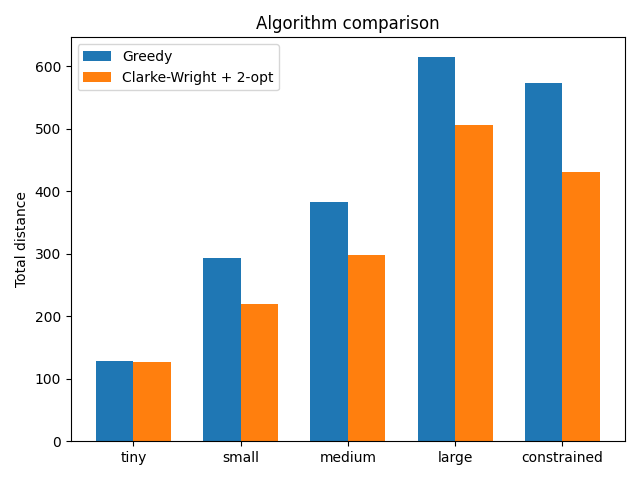
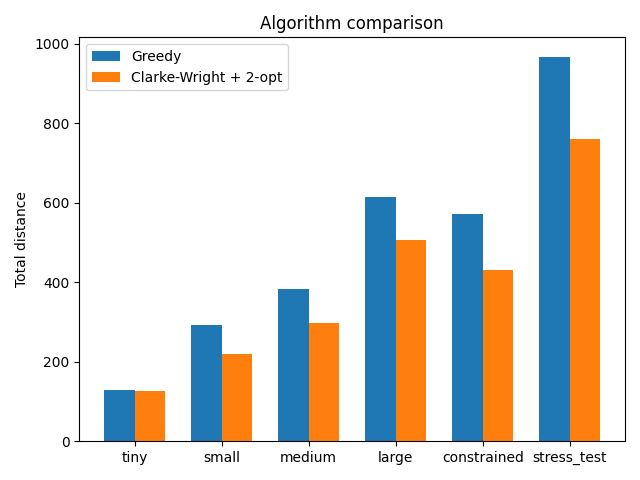
stress testing

diff --git a/test_data_6_stress.py b/test_data_6_stress.py
@@ -1,0 +1,25 @@
+# test_data_6_stress.py
+data = {
+    "name": "stress_test",
+    "depot": (25.0, 25.0),
+    "customers": [
+        (7.3, 22.7), (38.5, 35.3), (36.6, 21.7), (40.0, 26.6), (4.0, 22.8), (2.4, 46.6), (47.4, 16.8), (15.5, 38.4), (10.2, 8.9), (9.4, 17.4),
+        (31.3, 48.2), (10.5, 47.8), (27.8, 45.1), (40.9, 8.0), (32.4, 6.2), (0.3, 19.8), (38.7, 28.3), (9.6, 42.1), (45.7, 11.9), (22.4, 31.9),
+        (45.1, 6.3), (27.7, 48.4), (30.5, 35.9), (38.7, 25.4), (14.5, 29.5), (26.4, 17.2), (42.7, 18.1), (24.2, 38.1), (40.7, 44.5), (32.6, 12.6),
+        (42.4, 45.5), (35.7, 38.3), (25.7, 24.7), (29.1, 7.4), (33.8, 43.1), (8.2, 37.7), (35.3, 6.1), (2.5, 29.8), (11.0, 15.5), (31.1, 32.5),
+        (37.4, 28.4), (16.7, 0.6), (5.7, 9.6), (26.3, 36.0), (10.5, 19.5), (46.8, 20.0), (35.7, 30.9), (33.0, 23.8), (27.3, 35.0), (8.1, 39.9),
+        (43.6, 2.4), (9.9, 12.4), (4.7, 7.0), (32.1, 6.2), (3.3, 47.3), (20.1, 27.0), (23.7, 17.2), (22.7, 9.7), (29.0, 12.6), (7.3, 10.4),
+        (20.6, 46.5), (29.9, 49.0), (20.0, 13.0), (35.5, 9.5), (49.9, 19.5), (13.6, 13.6), (15.2, 46.8), (49.6, 27.9), (11.6, 0.5), (4.0, 14.9),
+        (32.1, 31.3), (42.7, 41.1), (17.6, 33.7), (22.2, 36.4), (9.2, 48.8), (1.1, 30.9), (17.6, 40.0), (7.2, 44.5), (0.2, 36.8), (35.2, 25.4),
+        (8.7, 19.1), (22.3, 10.6), (8.0, 42.1), (27.5, 13.5), (31.3, 31.6), (6.8, 29.2), (29.2, 5.6), (15.0, 43.2), (29.0, 11.2), (19.7, 22.9),
+        (35.4, 43.0), (4.4, 2.3), (22.1, 1.0), (7.7, 5.3), (4.4, 31.3), (4.8, 28.3), (48.3, 7.0), (37.9, 29.2), (8.5, 47.5), (36.8, 19.0)
+    ],
+    "demands": [
+        1, 4, 3, 1, 4, 3, 2, 3, 2, 1, 1, 2, 1, 1, 2, 4, 1, 4, 3, 4, 2, 4, 1, 3, 1, 1, 2, 1, 2, 4,
+        1, 1, 2, 3, 3, 1, 3, 1, 3, 3, 4, 2, 3, 1, 2, 3, 2, 2, 4, 1, 1, 3, 2, 3, 3, 2, 1, 4, 1, 2,
+        2, 4, 1, 4, 3, 1, 1, 4, 1, 4, 4, 2, 2, 4, 2, 2, 3, 3, 2, 3, 4, 4, 3, 3, 1, 3, 2, 2, 1, 4,
+        1, 3, 1, 2, 4, 3, 2, 2, 4, 1
+    ],
+    "vehicle_capacity": 20,
+    "num_vehicles": 25
+}

diff --git a/benchmark.py b/benchmark.py
@@ -7,25 +7,33 @@ from typing import List, Tuple
 import matplotlib.pyplot as plt
 
 
-def plot_comparison(instances_info: List[Tuple[str, object, dict]], outpath: str = 'vrp_comparison.png'):
+def plot_comparison(instances_info, outpath='outputs/final_comparison.png'):
     labels = []
     greedy_vals = []
     cw_vals = []
+    or_vals = []  # Add this list
+
     for name, inst, res in instances_info:
         labels.append(name)
         greedy_vals.append(res['greedy'][0])
         cw_vals.append(res['clarke_wright'][0])
+        or_vals.append(res['or_opt'][0])  # Extract Or-opt results
 
     x = range(len(labels))
-    width = 0.35
-    fig, ax = plt.subplots()
-    ax.bar([i - width / 2 for i in x], greedy_vals, width, label='Greedy')
-    ax.bar([i + width / 2 for i in x], cw_vals, width, label='Clarke-Wright + 2-opt')
+    width = 0.25 # Make bars thinner to fit three
+    fig, ax = plt.subplots(figsize=(10, 6))
+
+    # Add the three bar sets
+    ax.bar([i - width for i in x], greedy_vals, width, label='Greedy')
+    ax.bar([i for i in x], cw_vals, width, label='Clarke-Wright')
+    ax.bar([i + width for i in x], or_vals, width, label='Or-opt + 2-opt')
+
     ax.set_ylabel('Total distance')
-    ax.set_title('Algorithm comparison')
+    ax.set_title('Algorithm Comparison (Including AI Or-opt)')
     ax.set_xticks(x)
     ax.set_xticklabels(labels)
     ax.legend()
+    
     plt.tight_layout()
     fig.savefig(outpath)
     plt.close(fig)

diff --git a/tests.py b/tests.py
@@ -12,6 +12,7 @@ import test_data_2_small
 import test_data_3_medium
 import test_data_4_large
 import test_data_5_constrained
+import test_data_6_stress
 
 def run_python_file_tests():
     os.makedirs('outputs', exist_ok=True)
@@ -22,7 +23,8 @@ def run_python_file_tests():
         test_data_2_small,
         test_data_3_medium,
         test_data_4_large,
-        test_data_5_constrained
+        test_data_5_constrained,
+        test_data_6_stress
     ]
     
     instances_info = []

diff --git a/vrp_improved.py b/vrp_improved.py
@@ -8,7 +8,7 @@ def clarke_wright_savings(instance):
     Returns:
         List of routes (list of customer indices)
     """
-    return instance.clarke_wright_savings(do_2opt=True)
+    return instance.clarke_wright_savings(do_2opt=False)
 
 __all__ = ["clarke_wright_savings"]
 """Improved VRP solver: Clarke-Wright savings + optional 2-opt local search.
